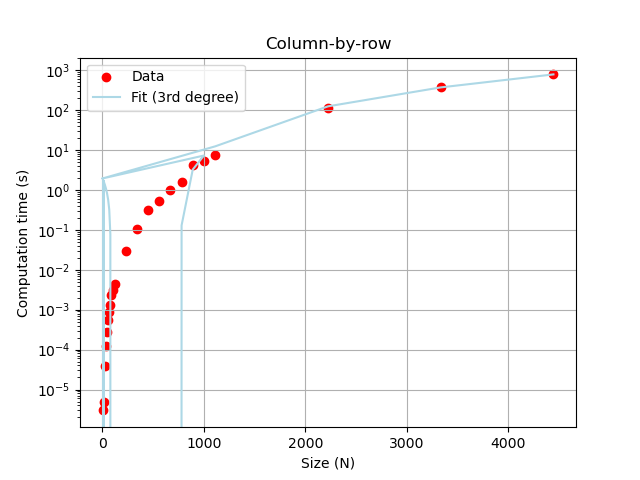
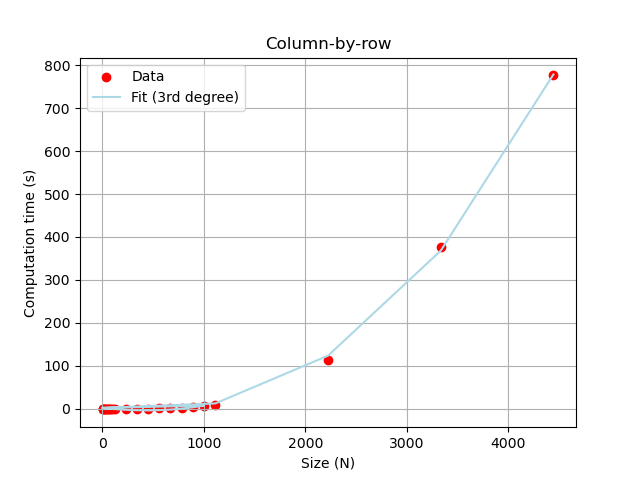
Ex4 inizio

diff --git a/hw/hw3/plots.py b/hw/hw3/plots.py
@@ -8,7 +8,7 @@
 # IMPORTS
 import numpy as np
 import matplotlib.pyplot as plt
-import script
+from scipy.stats import linregress
 
 # FUNCTIONS
 
@@ -44,25 +44,50 @@ def plot_timing(file_name):
     # Fit a quadratic function (degree 3 polynomial)
     fit_coeffs = np.polyfit(n_values, timing_values, deg=3)
     fit_fn = np.poly1d(fit_coeffs)  # Create a function based on the fit
-
+    
     # Plot the data
     plt.scatter(n_values, timing_values, color='r', label='Data')
     plt.plot(n_values, fit_fn(n_values), color='lightblue', label='Fit (3rd degree)')
-    #plt.xscale('log')
-    #plt.yscale('log')
+    
+    '''
+    ##
+    # Perform linear regression on each data set
+    slope_cr, intercept_cr, _, _, stderr_cr = linregress(np.log(n_values), np.log(timing_values))
+
+    # Compute the fitted lines
+    fitted_cr = np.exp(intercept_cr) * n_values ** slope_cr
+
+    # Plot the original data and fitted lines
+    plt.figure(figsize=(10, 6))
+
+    # Original data
+    plt.loglog(n_values, timing_values, 'ro', label='Row-by-Column')
+
+    # Fitted lines with error bars for slope
+    plt.loglog(n_values, fitted_cr, 'r--', label=f'Fit RC: slope={slope_cr:.2f} ± {stderr_cr:.2f}')
+    '''
     plt.xlabel('Size (N)')
     plt.ylabel('Computation time (s)')
     plt.legend()
     plt.grid()
     
     if file_name == 'Data/columnbyrow.txt':
+        # Plot the data
+        '''
+        plt.scatter(n_values, timing_values, color='r', label='CR')
+        plt.plot(n_values, fit_fn(n_values), color='r', linestyle='--', label='Fit')
+        '''
         plt.title('Column-by-row')
-        
         # Save to file 
         plt.savefig('Data/columnbyrow.png')
         
         plt.show()
     elif file_name == 'Data/rowbycolumn.txt':
+        # Plot the data
+        '''
+        plt.scatter(n_values, timing_values, color='b', label='RC')
+        plt.plot(n_values, fit_fn(n_values), color='b', linestyle='--', label='Fit')
+        '''
         plt.title('Row-by-column')
         
         # Save to file 
@@ -70,17 +95,22 @@ def plot_timing(file_name):
         
         plt.show()
     elif file_name == 'Data/intrinsic.txt':
+        # Plot the data
+        '''
+        plt.scatter(n_values, timing_values, color='g', label='I')
+        plt.plot(n_values, fit_fn(n_values), color='g', linestyle='--', label='Fit')
+        '''
         plt.title('Intrinsic method (matmul())')
-        
         # Save to file 
         plt.savefig('Data/intrinsic')
         
         plt.show()
     else:
         print('Input file not recognized. Supported input files are: columnbyrow.txt, rowbycolumn.txt, instrinsic.txt.')
-        exit(1)
     
-     
+    # Save to file 
+    #plt.savefig('Data/matmul.png')
+        
 # EXECUTION
 
 # Define the input files

diff --git a/hw/hw3/random_mat.py b/hw/hw3/random_mat.py
@@ -69,7 +69,7 @@ def spacingD(N, N_matrices, trim=True):
     
     for mat in range(N_matrices):
         # Generate the matrix
-        D = gen_herm(N)
+        D = real_diag(N)
         # Compute and order the eigenvalues
         eigvals = np.linalg.eigvals(D) # Returns the eigenvalues already in ascending order
         eigvals = np.sort(eigvals)
@@ -110,7 +110,7 @@ def wigner(s, a, alpha, b, beta):
     
     return a * (s ** alpha) * np.exp(exponent)
 
-def fitnplot(data, func, n_bins, mode, p0=[1,1,-1,1]):
+def fitnplot(data, func, n_bins, mode, p0=[1,1,-1,1], N=1000, N_matrices=30):
     
     # Check for the right mode being input
     if mode != 'Hermitian' and mode != 'Diagonal':
@@ -149,7 +149,7 @@ def fitnplot(data, func, n_bins, mode, p0=[1,1,-1,1]):
     plt.text(0.9, 0.7, f'a: {params[0]:.2f}\nalpha: {params[1]:.2f}\nb: {params[2]:.2f}\nbeta: {params[3]:.2f}', horizontalalignment='center', verticalalignment='center', transform=plt.gca().transAxes, bbox=dict(facecolor='white', alpha=0.5)) # add a box for the parameters
     plt.xlabel('Spacing (normalized)')
     plt.ylabel('N events')
-    plt.title(f'Eigenvalue spacing distribution ({mode})')
+    plt.title(f'Eigenvalue spacing distribution ({mode}; N={N}, N_matrices={N_matrices})')
     plt.legend()
     plt.grid()
 
@@ -165,8 +165,8 @@ N = 1000
 N_matrices = 30
 
 # Set the seed
-#np.random.seed(12345)
-np.random.seed(11111)
+np.random.seed(12345)
+#np.random.seed(11111)
 
 #  Full random hermitian matrix
 data_h, eig_r = spacingH(N, N_matrices)

diff --git a/hw/hw4/cat.py b/hw/hw4/cat.py
@@ -1,0 +1,11 @@
+############################################# SCHRODINGER EQUATION ###########################################################################
+#
+# Continuous time-independent Schrodinger Equation ¨ Consider the one dimensional quantum harmonic oscillator defined by the Hamiltonian:
+#𝐻 = 𝑝ˆ2 + 𝜔2𝑞ˆ2
+# (a) Write a program to compute the first 𝑘 eigenvalues 𝐸𝑘 and eigenvectors |Ψ𝑘 ⟩.
+# (b) How would you rate your program in terms of the priorities we introduced in class for good scientific
+# software development (Correctness, Stability, Accurate discretization, Flexibility, Efficiency)?
+#
+###############################################################################################################################################
+
+ 
